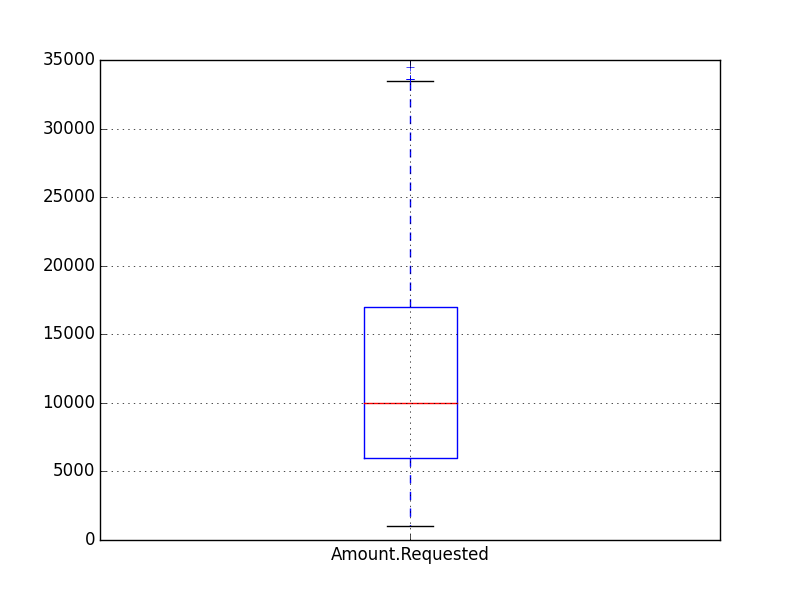
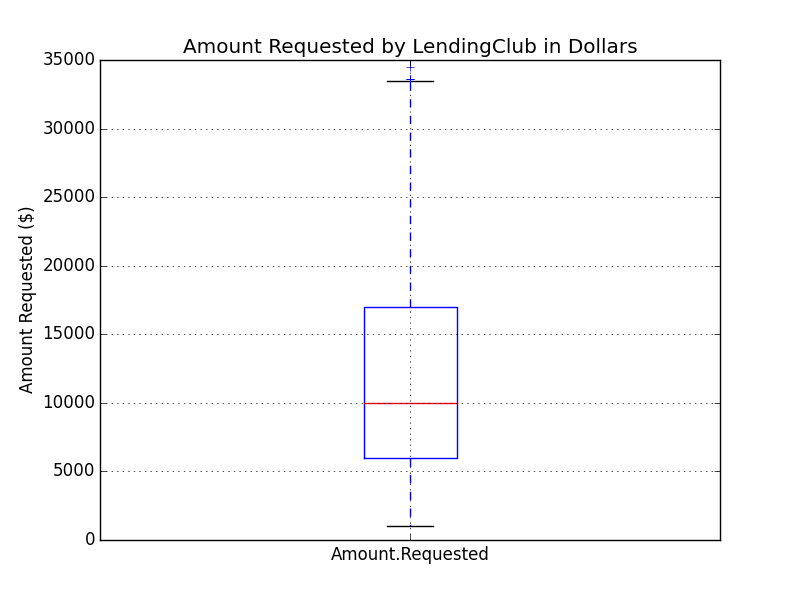
fixed labels of plots

Changed region(s): [[0.2188, 0.06, 0.8125, 0.09], [0.0312, 0.36, 0.0625, 0.54], [0.0312, 0.57, 0.0625, 0.66]]

diff --git a/Unit2/prob_lending_club.py b/Unit2/prob_lending_club.py
@@ -16,23 +16,24 @@ loansData.dropna(inplace=True)
 # Boxplot
 plt.close()
 loansData.boxplot(column='Amount.Requested')
+plt.ylabel('Amount Requested ($)')
+plt.xlabel(' ')
+plt.title('Amount Requested by LendingClub in Dollars')
 plt.savefig("amount_requested_boxplot.png")
-plt.ylabel('Amount Requested')
-plt.title('Amount Requested by LendingClub')
 plt.close()
 
 # histogram
 loansData.hist(column='Amount.Requested')
+plt.ylabel('Amount Requested ($)')
+plt.title('Amount Requested by LendingClub in Dollars')
 plt.savefig("amount_requested_hist.png")
-plt.ylabel('Amount Requested')
-plt.title('Amount Requested by LendingClub')
 plt.close()
 
 # QQ-plot
 plt.figure()
 graph = stats.probplot(loansData['Amount.Requested'], dist="norm", plot=plt)
+plt.title('Amount Requested by LendingClub in Dollars')
 plt.savefig("amount_requested_qqplot.png")
-plt.title('Amount Requested by LendingClub')
 plt.close()
 
 # Describe the result and how it compares with the values from the "Amount.Funded.By.Investors". 
